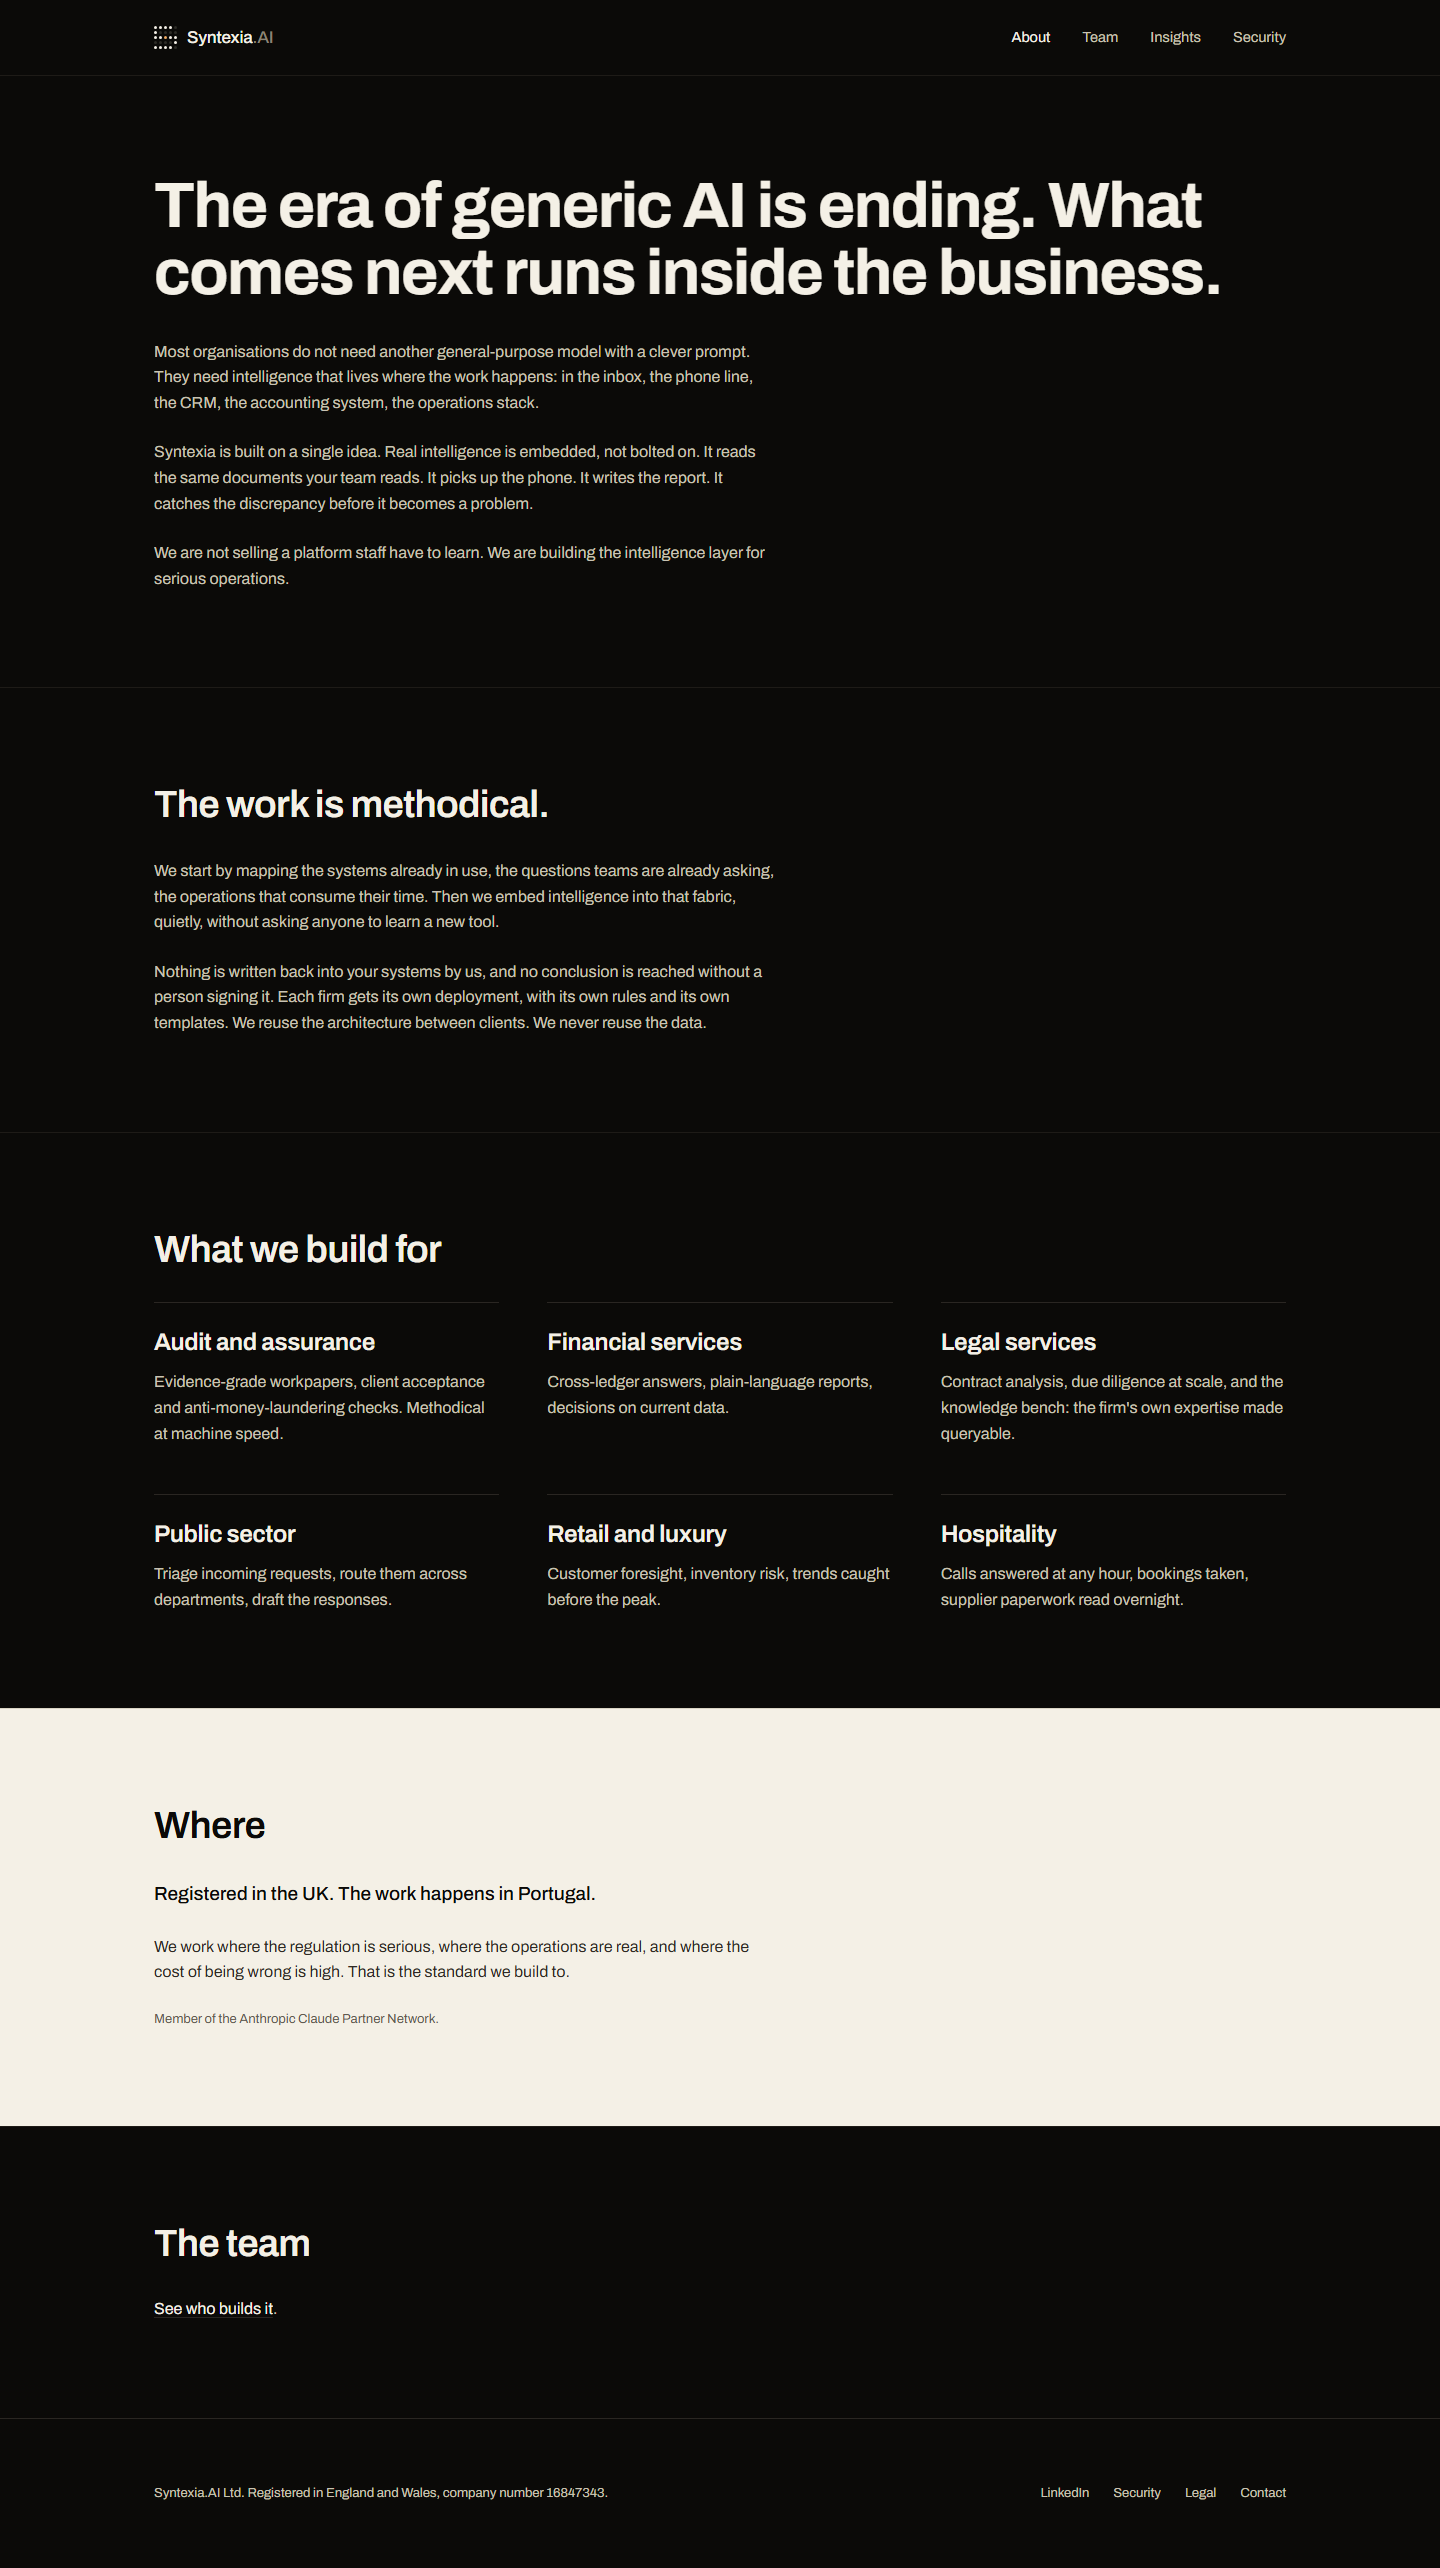
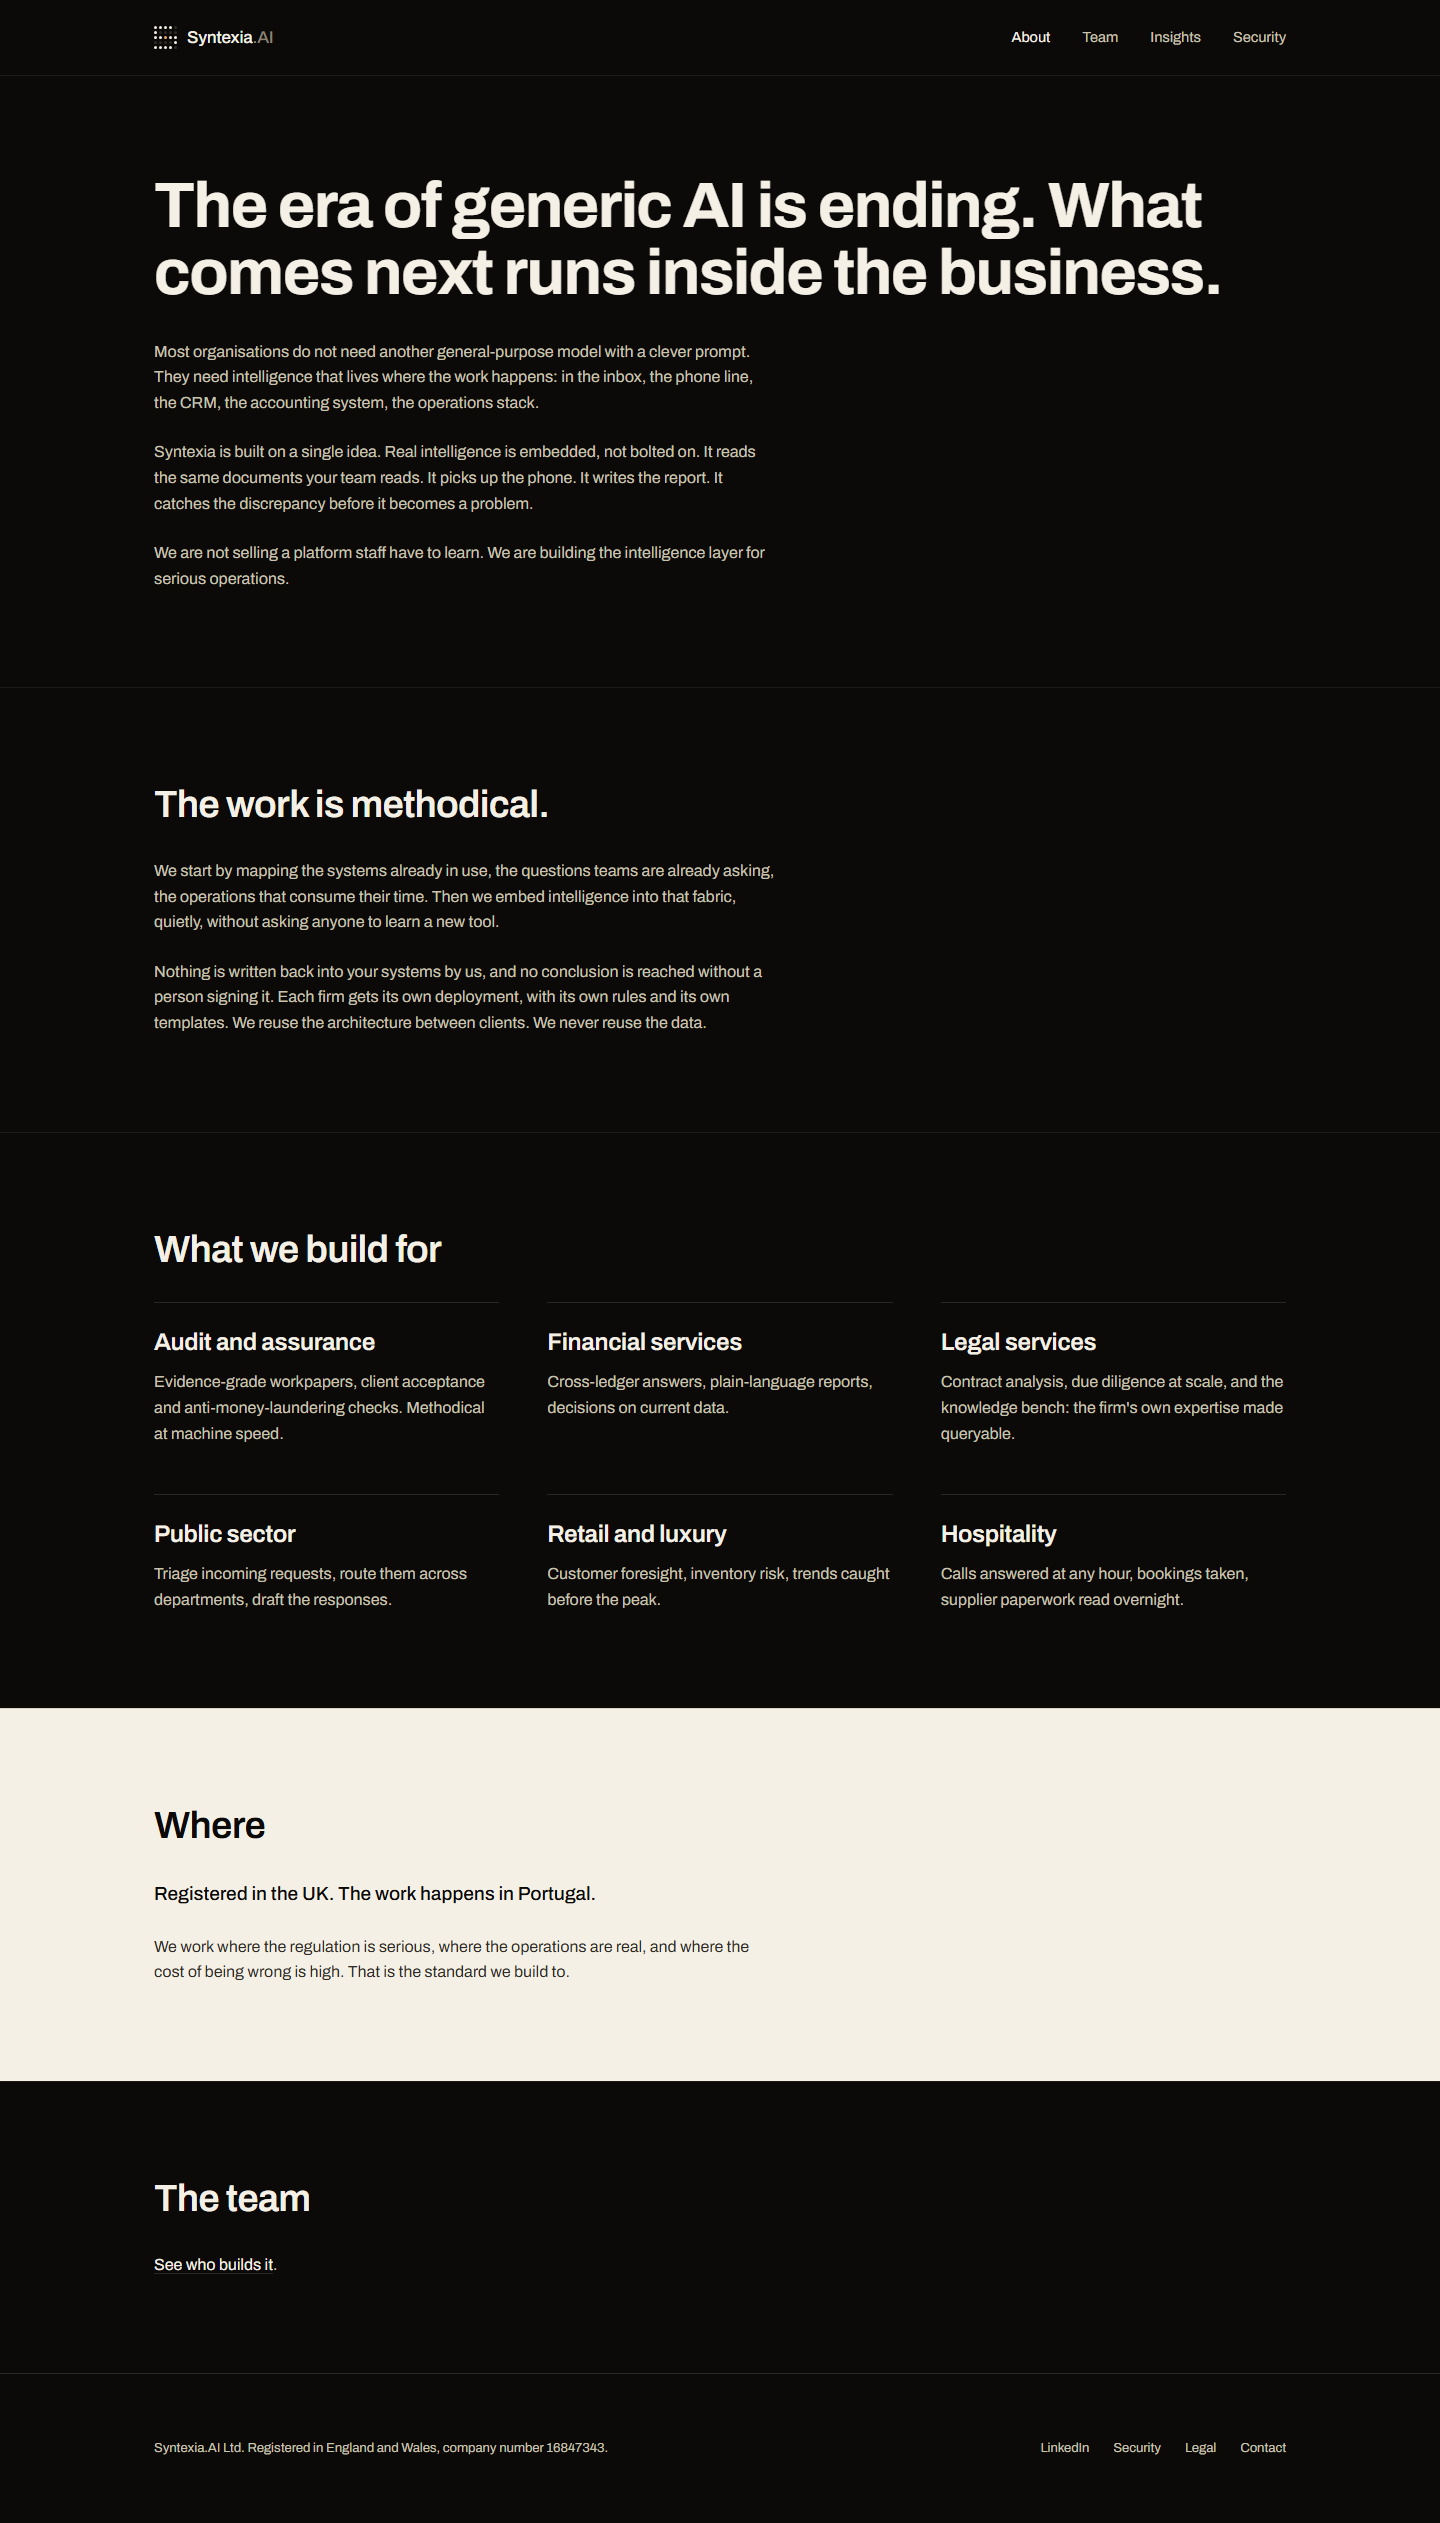
feat: the partnership at full size, team biographies
The Anthropic partnership was rendered as small grey text at the bottom of
the About block. It now has its own band, with the programme name treated as
a section title.

The exact tier has been known since the company's LinkedIn post: Registered
Partner. That is a public source, which beats an oral confirmation, and it
explains the directory: it only lists the higher tiers, the Services Track
being the route up.

Three things the block deliberately does not do: no Anthropic logo, for lack
of permission to use their mark; no invented tier, the previous site wrote
"Frontier model partner" which nothing supports; no link as long as no public
announcement exists.

Team profiles completed from public LinkedIn profiles, the only source
available. The CTO's carries the strongest selling argument in the file, and
it is technical: a refusal list at the start of every build, deterministic
engines for the numbers, the model computes none of them, nothing reaches the
user without an automatic check, and every system tested against both failure
modes, answering wrongly and refusing wrongly.

Added the two hard rules on /team: client data never trains a model, and
every result points back to its source document. They say in two lines what
/security develops.

/team goes from 80 to 199 words. The CTO's LinkedIn is filled in.

Claude-Session: https://claude.ai/code/session_01F6WnQWcBwXM9bxKbm8izRY

diff --git a/src/facts.ts b/src/facts.ts
@@ -108,10 +108,45 @@ export const partnerNetworkUrl: SourcedFact<string> | null = NONE;
  *  mention est rendue, sobrement et sans lien, tant qu'aucune URL n'existe.
  *  Dès qu'une annonce publique sort, renseigner partnerNetworkUrl au dessus :
  *  la mention deviendra cliquable toute seule. */
-export const partnerNetwork: SourcedFact<string> | null = {
-  value: 'Member of the Anthropic Claude Partner Network.',
-  source: 'validation Karim, 2026-09-01. Pas encore listé publiquement, tier inférieur.',
+export const partnerNetwork: SourcedFact<{ tier: string; programme: string }> | null = {
+  value: { tier: 'Registered Partner', programme: 'Anthropic Claude Partner Network' },
+  // Le niveau exact vient du post public de la société : « Syntexia.AI is an
+  // official Registered Partner in the Anthropic Claude Partner Network, the
+  // programme through which Anthropic supports the firms putting Claude into
+  // production ». C'est publié, donc citable, même si la source reste la
+  // société. Cela explique aussi l'annuaire : il ne référence que les tiers
+  // supérieurs, et la Services Track est la voie pour y monter.
+  source: 'publication LinkedIn de Syntexia.AI, plus validation Karim du 2026-09-01',
 };
+
+/** Les deux règles dures du produit, énoncées publiquement par le CTO.
+    Elles disent en une ligne ce que la page /security développe. */
+export const hardRules: string[] = [
+  'Client data never trains a model.',
+  'Every result points back to its source document.',
+];
+
+/** Les fiches de l'équipe. Biographies tirées des profils LinkedIn publics,
+    seule source disponible. Aucun client n'y est nommé. */
+export const team: {
+  name: string;
+  role: string;
+  bio: string;
+  linkedin: string | null;
+}[] = [
+  {
+    name: 'Karim Vissangy',
+    role: 'CEO and Chief AI Officer',
+    bio: 'Two decades at the intersection of digital innovation, data and emerging technology. Economics at ISEG Lisbon, MBA at UCL. Ran strategy and operations for international hotel groups, co-founded a European voice AI platform, and now leads Syntexia between London and Lisbon.',
+    linkedin: 'https://www.linkedin.com/in/karim-vissangy-17aa893a/',
+  },
+  {
+    name: 'Baptiste Bouault',
+    role: 'CTO and Lead AI Engineer',
+    bio: 'Owns the technical side end to end. Starts every build with a refusal list: the things the model is not allowed to do. Deterministic engines handle the numbers, the model only writes around figures already calculated and locked, and nothing reaches a user without clearing an automated check first. Every system is tested on both failure modes: giving a wrong answer, and refusing a question it should have answered. ESSEC and UC Berkeley.',
+    linkedin: 'https://www.linkedin.com/in/baptiste-bouault/',
+  },
+];
 
 /* ------------------------------------------------------------------ */
 /* Déploiements et secteurs                                            */
